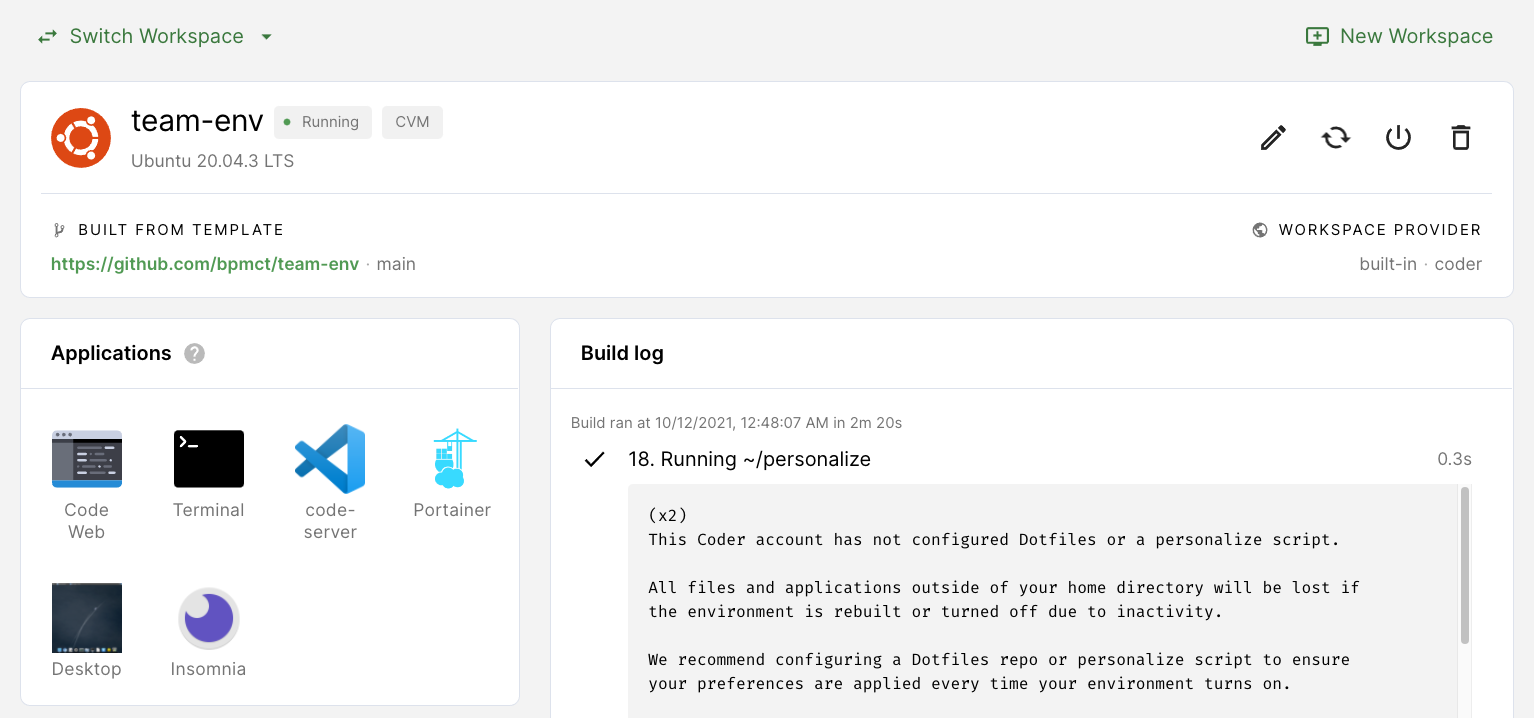
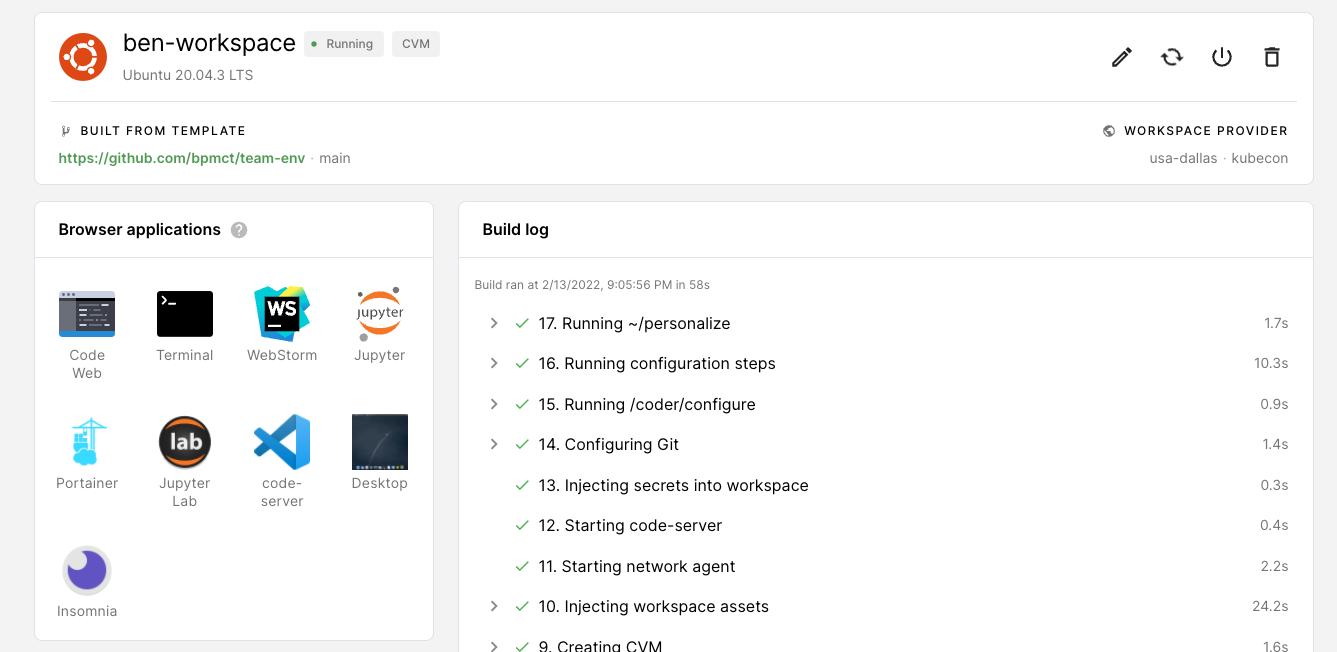
update to reflect new applications

diff --git a/README.md b/README.md
@@ -10,8 +10,13 @@ Open in Sandbox:
 
 ## Applications
 
-- Remote desktop from web browser (VNC + noVNC)
+- Custom code-server (VS Code) Version
+- WebStorm (JetBrains IDE)
+- Jupyter Notebooks
+- Remote desktop (VNC)
+    - Web VNC Client (noVNC)
     - Insomnia 
+    - Portainer
 - Podman (container management GUI)
 - code-server (specific version)
 - JupyterLab (via dev URL)
